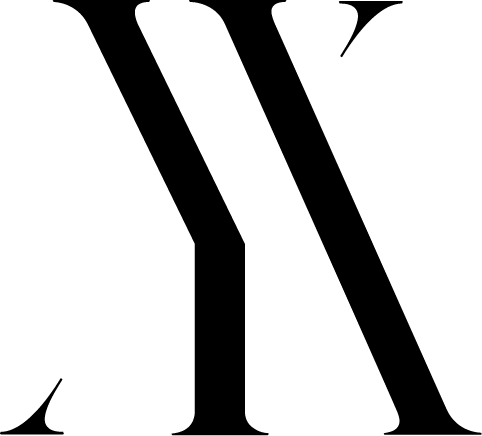
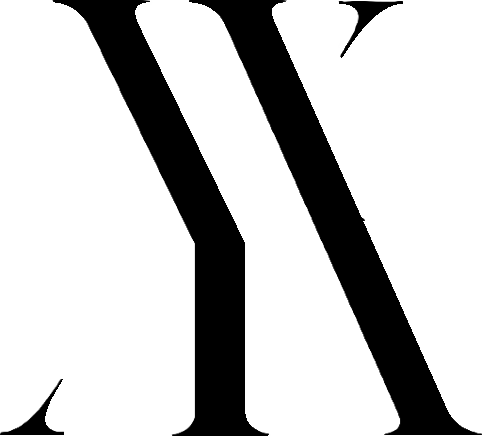
עדכון סקרייפרים

diff --git a/scrapers/leaa_scraper.js b/scrapers/leaa_scraper.js
@@ -1,0 +1,261 @@
+import 'dotenv/config';
+import { chromium } from 'playwright';
+import pkg from 'pg';
+console.log("ENV DATABASE_URL =", process.env.DATABASE_URL ? "SET" : "MISSING");
+const { Client } = pkg;
+
+const connStr = process.env.DATABASE_URL;
+const useSSL = connStr && (connStr.includes('rlwy.net') || connStr.includes('amazonaws.com') || connStr.includes('supabase'));
+
+const db = new Client({
+  connectionString: connStr,
+  ssl: useSSL ? { rejectUnauthorized: false } : undefined,
+});
+
+await db.connect();
+console.log('🚀 Leaa (ליידיס) Scraper');
+
+import { loadScraperConfig } from './scraper_utils.js';
+const { normalizeColor, unknownColors, shouldSkip, detectCategory, detectStyle, detectFit, detectFabric, detectPattern, detectDesignDetails } = await loadScraperConfig(db);
+
+const STORE = 'LEAA';
+const BASE  = 'https://leaa.co.il';
+
+// פסקאות שיש לסנן מהתיאור
+const SKIP_PARAGRAPHS = ['מרכך','כביסה','לכבס','לשמור על צבע','תשארנה','פרטים לגבי משלוח','&nbsp;'];
+
+// ======================================================================
+// איסוף קישורים
+// ======================================================================
+async function getAllProductUrls(page) {
+  console.log('\n📂 איסוף קישורים מ-leaa.co.il...\n');
+  const allUrls = new Set();
+  const MAX_PAGES = parseInt(process.env.SCRAPER_MAX_PAGES) || 50;
+
+  for (let p = 1; p <= MAX_PAGES; p++) {
+    const url = p === 1 ? `${BASE}/shop/` : `${BASE}/shop/page/${p}/`;
+    console.log(`  → עמוד ${p}`);
+
+    await page.goto(url, { waitUntil: 'domcontentloaded', timeout: 30000 });
+    await page.waitForTimeout(2000);
+
+    for (let i = 0; i < 3; i++) {
+      await page.evaluate(() => document.body && window.scrollTo(0, document.body.scrollHeight));
+      await page.waitForTimeout(700);
+    }
+
+    const urls = await page.evaluate((base) =>
+      [...document.querySelectorAll('a.woocommerce-LoopProduct-link, .products .product a[href]')]
+        .map(a => a.href.split('?')[0])
+        .filter(h => h.includes(base) && !h.endsWith('/shop/') && !h.includes('/page/') && !h.includes('/product-category/') && h !== base + '/')
+        .filter((v, i, a) => a.indexOf(v) === i)
+    , BASE);
+
+    if (urls.length === 0) { console.log(`    ⏹ עמוד ריק — עוצר`); break; }
+
+    urls.forEach(u => allUrls.add(u));
+    console.log(`    ✓ ${urls.length} קישורים`);
+    await page.waitForTimeout(800);
+  }
+
+  const result = [...allUrls];
+  console.log(`  ✓ סה"כ: ${result.length} קישורים\n`);
+  return result;
+}
+
+// ======================================================================
+// גירוד מוצר
+// ======================================================================
+async function scrapeProduct(page, url) {
+  try {
+    await page.goto(url, { waitUntil: 'domcontentloaded', timeout: 30000 });
+    await page.waitForTimeout(2000);
+
+    // כותרת — הסר "חדש:" בתחילה
+    const rawTitle = await page.$eval(
+      'h1.elementor-heading-title, h1.product_title, h1.entry-title',
+      el => el.textContent.trim()
+    ).catch(() => '');
+    const title = rawTitle.replace(/^חדש[:\s]+/i, '').trim();
+    if (!title) return null;
+    if (shouldSkip(title)) { console.log(`  ⏭ מדלג: ${title.substring(0, 40)}`); return null; }
+
+    // מחיר — מ-elementor heading עם del/ins, או מ-.price רגיל
+    const priceData = await page.evaluate(() => {
+      const clean = t => parseFloat((t || '').replace(/[^\d.]/g, '')) || 0;
+      // נסה מ-elementor heading
+      const heading = document.querySelector('.elementor-heading-title');
+      const ins = heading?.querySelector('ins .woocommerce-Price-amount, ins .amount')
+                || document.querySelector('.price ins .amount, .price ins .woocommerce-Price-amount');
+      const del = heading?.querySelector('del .woocommerce-Price-amount, del .amount')
+                || document.querySelector('.price del .amount, .price del .woocommerce-Price-amount');
+      const single = heading?.querySelector('.woocommerce-Price-amount, .amount')
+                   || document.querySelector('.price .woocommerce-Price-amount, .price .amount');
+      if (ins) return { price: clean(ins.textContent), original: del ? clean(del.textContent) : 0 };
+      return { price: clean(single?.textContent), original: 0 };
+    });
+    if (!priceData.price) return null;
+
+    // תיאור — סנן פסקאות טיפול ופסקאות ריקות
+    const skipKw = SKIP_PARAGRAPHS;
+    const allParagraphs = await page.evaluate((skipKw) =>
+      [...document.querySelectorAll('.woocommerce-product-details__short-description p')]
+        .map(p => p.textContent.trim())
+        .filter(t => t && !skipKw.some(kw => t.includes(kw)))
+    , skipKw);
+
+    const firstParagraph = allParagraphs[0] || '';
+    const description    = allParagraphs.slice(0, 3).join(' '); // 3 פסקאות ראשונות רלוונטיות
+
+    // מידות — כל div.vi-wpvs-option-wrap שמופיע = במלאי
+    const sizes = await page.evaluate(() =>
+      [...document.querySelectorAll('div.vi-wpvs-option-wrap[data-attribute_value]')]
+        .map(d => (d.getAttribute('data-attribute_label') || d.getAttribute('data-attribute_value') || '').trim())
+        .filter(Boolean)
+    );
+
+    // בדיקת אזל מלאי כולל (badge)
+    const fullyOos = await page.evaluate(() =>
+      !!document.querySelector('.outofstock-badge, .out-of-stock')
+    );
+
+    // תמונות
+    const images = await page.evaluate(() =>
+      [...document.querySelectorAll('.woocommerce-product-gallery__image a, .product-images a')]
+        .map(a => a.getAttribute('href') || a.getAttribute('data-src'))
+        .filter(Boolean)
+        .filter((v, i, a) => a.indexOf(v) === i)
+    );
+
+    // צבע — מהפסקה הראשונה בלבד
+    const mainColor     = normalizeColor(firstParagraph) || normalizeColor(title);
+    const category      = detectCategory(title, description);
+    const style         = detectStyle(title, description);
+    const fit           = detectFit(title, description);
+    const pattern       = detectPattern(title, description);
+    const fabric        = detectFabric(title, description);
+    const designDetails = detectDesignDetails(title, description);
+
+    const uniqueSizes    = fullyOos ? [] : [...new Set(sizes)];
+    const allUniqueSizes = [...new Set(sizes)];
+
+    console.log(`  ✓ ${title.substring(0, 40)}`);
+    console.log(`    💰 ₪${priceData.price}${priceData.original ? ` (מקור: ₪${priceData.original})` : ''} | 🎨 ${mainColor || '-'} | 📏 ${uniqueSizes.join(',') || '-'} | 🖼️ ${images.length}`);
+
+    return {
+      title, price: priceData.price, originalPrice: priceData.original || null,
+      images, sizes: uniqueSizes, allSizes: allUniqueSizes,
+      mainColor, colors: mainColor ? [mainColor] : [],
+      colorSizes: {}, category, style, fit, pattern, fabric, designDetails,
+      description, url,
+    };
+  } catch(err) {
+    console.log(`  ✗ ${err.message.substring(0, 60)}`);
+    return null;
+  }
+}
+
+// ======================================================================
+// שמירה ל-DB
+// ======================================================================
+async function saveProduct(product) {
+  if (!product) return;
+  try {
+    await db.query(
+      `INSERT INTO products (store, title, price, original_price, image_url, images, sizes, color, colors, style, fit, category, description, source_url, color_sizes, pattern, fabric, design_details, all_sizes, last_seen, first_seen)
+       VALUES ($1,$2,$3,$4,$5,$6,$7,$8,$9,$10,$11,$12,$13,$14,$15,$16,$17,$18,$19,NOW(),NOW())
+       ON CONFLICT (source_url) DO UPDATE SET
+         title=EXCLUDED.title, price=EXCLUDED.price, original_price=EXCLUDED.original_price,
+         image_url=EXCLUDED.image_url, images=EXCLUDED.images, sizes=EXCLUDED.sizes,
+         color=EXCLUDED.color, colors=EXCLUDED.colors, style=EXCLUDED.style, fit=EXCLUDED.fit,
+         category=EXCLUDED.category, description=EXCLUDED.description,
+         color_sizes=EXCLUDED.color_sizes, pattern=EXCLUDED.pattern, fabric=EXCLUDED.fabric,
+         design_details=EXCLUDED.design_details, all_sizes=EXCLUDED.all_sizes, last_seen=NOW(),
+         price_dropped_at = CASE
+           WHEN EXCLUDED.original_price IS NOT NULL
+            AND EXCLUDED.original_price > EXCLUDED.price * 1.10
+            AND (products.original_price IS NULL OR products.original_price <= products.price * 1.10)
+           THEN NOW()
+           ELSE products.price_dropped_at
+         END`,
+      [STORE, product.title, product.price || 0, product.originalPrice || null,
+       product.images[0] || '', product.images, product.sizes, product.mainColor,
+       product.colors, product.style || null, product.fit || null, product.category,
+       product.description || null, product.url, JSON.stringify(product.colorSizes),
+       product.pattern || null, product.fabric || null,
+       product.designDetails?.length ? product.designDetails : null,
+       product.allSizes || []]
+    );
+    console.log('  💾 saved');
+  } catch(err) {
+    console.log(`  ✗ DB: ${err.message.substring(0, 60)}`);
+  }
+}
+
+// ======================================================================
+// health check
+// ======================================================================
+async function runHealthCheck() {
+  console.log('\n🔍 בודק תקינות נתונים...');
+  const problems = [];
+
+  if (unknownColors.size > 0) {
+    problems.push(`⚠️ צבעים לא מזוהים (${unknownColors.size}):`);
+    for (const c of unknownColors) problems.push(`   ❓ "${c}"`);
+  }
+
+  const mi = await db.query(`SELECT COUNT(*) as c FROM products WHERE store=$1 AND (images IS NULL OR array_length(images,1)=0)`, [STORE]);
+  if (parseInt(mi.rows[0].c) > 0) problems.push(`⚠️ ללא תמונות: ${mi.rows[0].c}`);
+
+  const ms = await db.query(`SELECT COUNT(*) as c FROM products WHERE store=$1 AND (sizes IS NULL OR array_length(sizes,1)=0)`, [STORE]);
+  if (parseInt(ms.rows[0].c) > 0) problems.push(`⚠️ ללא מידות: ${ms.rows[0].c}`);
+
+  const total = await db.query(`SELECT COUNT(*) as c FROM products WHERE store=$1`, [STORE]);
+  console.log(`\n📊 סה"כ ${STORE} ב-DB: ${total.rows[0].c}`);
+
+  if (problems.length > 0) {
+    console.log(`\n${'='.repeat(50)}\n🚨 בעיות:`);
+    problems.forEach(p => console.log('   ' + p));
+    console.log('='.repeat(50));
+  } else {
+    console.log('\n✅ הכל תקין!');
+  }
+}
+
+// ======================================================================
+// הרצה ראשית
+// ======================================================================
+const browser = await chromium.launch({
+  headless: true,
+  slowMo: 30,
+  args: ['--no-sandbox', '--disable-setuid-sandbox', '--lang=he-IL,he,en-US,en'],
+});
+const context = await browser.newContext({
+  userAgent: 'Mozilla/5.0 (Windows NT 10.0; Win64; x64) AppleWebKit/537.36 (KHTML, like Gecko) Chrome/124.0.0.0 Safari/537.36',
+  viewport: { width: 1920, height: 1080 },
+  locale: 'he-IL',
+  timezoneId: 'Asia/Jerusalem',
+});
+const page = await context.newPage();
+
+try {
+  const urls = await getAllProductUrls(page);
+  console.log(`\n${'='.repeat(50)}\n📊 Total: ${urls.length} products\n${'='.repeat(50)}`);
+
+  const MAX_PRODUCTS = parseInt(process.env.SCRAPER_MAX_PRODUCTS) || 99999;
+  let ok = 0, fail = 0;
+
+  for (let i = 0; i < Math.min(urls.length, MAX_PRODUCTS); i++) {
+    console.log(`\n[${i + 1}/${Math.min(urls.length, MAX_PRODUCTS)}]`);
+    const p = await scrapeProduct(page, urls[i]);
+    if (p) { await saveProduct(p); ok++; } else fail++;
+    await page.waitForTimeout(500);
+  }
+
+  console.log(`\n${'='.repeat(50)}\n🏁 Done: ✅ ${ok} | ❌ ${fail}\n${'='.repeat(50)}`);
+  await runHealthCheck();
+
+} finally {
+  await browser.close();
+  await db.end();
+}

diff --git a/public/index.html b/public/index.html
@@ -1115,7 +1115,8 @@ const storeLogos={
   'MYME':'/myme.png',
   'SHEBELLO':'/shebello.png',
   'MODA':'/moda.png',
-  'EUROPISRAEL':'/europisrael.png'
+  'EUROPISRAEL':'/europisrael.png',
+  'LEAA':'/leaa.png'
 };
 
 // פונקציה שמחזירה לוגו — קודם בודקת קובץ מקומי בפובליק, אחר כך URL חיצוני

diff --git a/run_scrapers.js b/run_scrapers.js
@@ -25,6 +25,7 @@ const SCRAPERS = {
   'shebello': './scrapers/shebello_scraper.js',
   'europisrael': './scrapers/europisrael_scraper.js',
   'moda': './scrapers/moda_scraper.js',
+  'leaa': './scrapers/leaa_scraper.js',
 };
 
 

diff --git a/test_scrapers.js b/test_scrapers.js
@@ -37,6 +37,7 @@ const SCRAPERS = {
   'shebello':    './scrapers/shebello_scraper.js',
   'moda':        './scrapers/moda_scraper.js',
   'europisrael': './scrapers/europisrael_scraper.js',
+  'leaa':        './scrapers/leaa_scraper.js',
 };
 
 const args = process.argv.slice(2).map(a => a.toLowerCase());